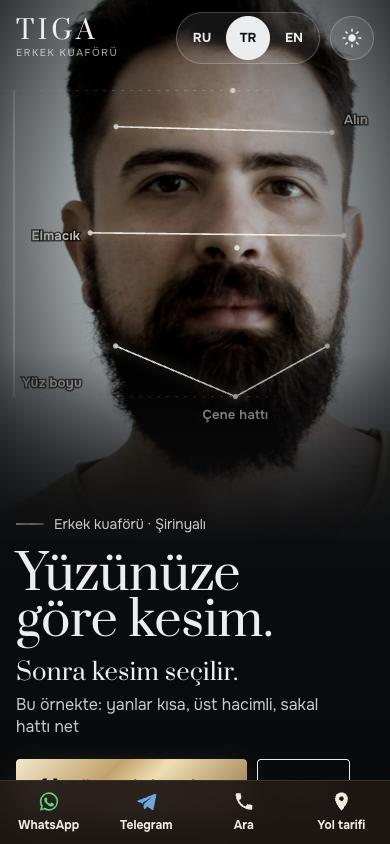
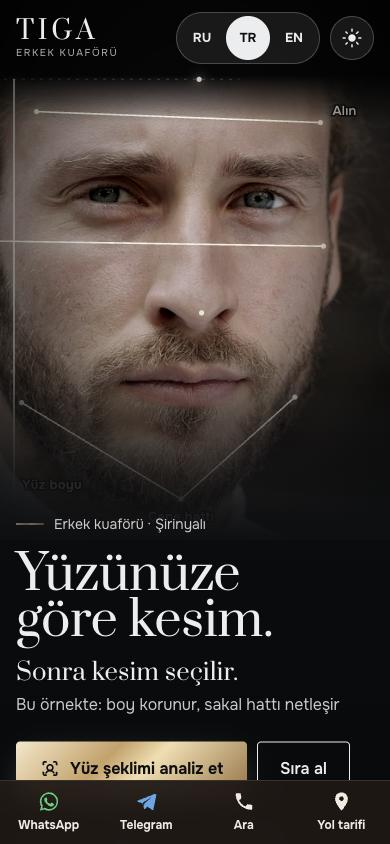
Berber demo: yeni yüz videosu

diff --git a/demo/sektor/berber/index.html b/demo/sektor/berber/index.html
@@ -26,7 +26,7 @@ h1,h2,h3{font-family:var(--k-display);font-weight:400;margin:0;letter-spacing:-.
 .hero{position:relative;min-height:100svh;color:#ECEDEF;display:flex;flex-direction:column;isolation:isolate;overflow:hidden;background:#0E0F11}
 /* yüz anatomisi: önceden çıkarılmış yüz noktalarıyla çizgiler (face-track.js) */
 .anat{position:absolute;inset:0;z-index:-2;background:#070708;overflow:hidden}
-.anat video{position:absolute;left:0;top:0;width:100%;height:100%;max-width:none;max-height:none;object-fit:cover;filter:contrast(1.18) saturate(.8) brightness(.78);opacity:0;transition:opacity 1.2s var(--ease)}
+.anat video{position:absolute;left:0;top:0;width:100%;height:100%;max-width:none;max-height:none;object-fit:cover;-webkit-mask-image:linear-gradient(180deg,transparent 0,#000 10%);mask-image:linear-gradient(180deg,transparent 0,#000 10%);filter:contrast(1.18) saturate(.8) brightness(.78);opacity:0;transition:opacity 1.2s var(--ease)}
 .anat video.on{opacity:1}
 .anat svg{position:absolute;inset:0;width:100%;height:100%;overflow:visible}
 .anat__vig{position:absolute;inset:0;background:radial-gradient(70% 75% at 50% 44%,transparent 30%,rgba(0,0,0,.82))}
@@ -349,7 +349,7 @@ window.SITE = {
       night_msg: 'Yarın sabah 10 civarı saç ve sakal için sıra alabilir miyim? Yanlar kısa, üst hacimli olsun.',
       page_title: 'Tiga Kuaför · Şirinyalı · yüzünüze göre kesim', page_desc: "Şirinyalı'da erkek kuaförü. Yüz şeklinize ve saç yapınıza uygun kesim, sakal ve çocuk saç kesimi.",
       brand_sub: 'ERKEK KUAFÖRÜ', nav_face: 'Yüz analizi', nav_styles: 'Kesimler', nav_book: 'Sıra al', nav_find: 'Bizi bulun',
-      kicker: 'Erkek kuaförü · Şirinyalı', an_1: 'Önce yüz okunur.|Boy, alın, elmacık, çene', an_2: 'Alın genişliği|Üstteki hacmi belirler', an_3: 'Elmacık kemikleri|Yanların ne kadar kısalacağını belirler', an_4: 'Çene hattı|Sakal ve favori çizgisini belirler', an_5: 'Sonra kesim seçilir.|Bu örnekte: yanlar kısa, üst hacimli, sakal hattı net', lb_len: 'Yüz boyu', lb_fh: 'Alın', lb_ck: 'Elmacık', lb_jw: 'Çene hattı', cut_h: 'Kesim, adım adım.', c1: 'Makineyle ilk geçiş.|Yanlar ve ense', c2: 'Geçiş yumuşatılır.|Fade çizgisi kaybolana kadar', c3: 'Makasla üst.|Doku ve uzunluk', c4: 'Usturayla kontür.|Ense ve favori', c5: 'Tarak ve şekil.|Aynada son bakış', hero_h1: 'Yüzünüze göre kesim.', hero_p: 'Her kesim her yüze yakışmaz. Fotoğrafınızı yükleyin, size uyanı görün.', hn1: 'Her kesim her yüze yakışmaz.|Fotoğrafınızı yükleyin, size uyanı görün', hn2: 'Makine, makas, ustura.|Kesimi katalogdan seçin', hn3: 'Sıranızı alın.|WhatsApp ya da Telegram ile',
+      kicker: 'Erkek kuaförü · Şirinyalı', an_1: 'Önce yüz okunur.|Boy, alın, elmacık, çene', an_2: 'Alın genişliği|Üstteki hacmi belirler', an_3: 'Elmacık kemikleri|Yanların ne kadar kısalacağını belirler', an_4: 'Çene hattı|Sakal ve favori çizgisini belirler', an_5: 'Sonra kesim seçilir.|Bu örnekte: boy korunur, sakal hattı netleşir', lb_len: 'Yüz boyu', lb_fh: 'Alın', lb_ck: 'Elmacık', lb_jw: 'Çene hattı', cut_h: 'Kesim, adım adım.', c1: 'Makineyle ilk geçiş.|Yanlar ve ense', c2: 'Geçiş yumuşatılır.|Fade çizgisi kaybolana kadar', c3: 'Makasla üst.|Doku ve uzunluk', c4: 'Usturayla kontür.|Ense ve favori', c5: 'Tarak ve şekil.|Aynada son bakış', hero_h1: 'Yüzünüze göre kesim.', hero_p: 'Her kesim her yüze yakışmaz. Fotoğrafınızı yükleyin, size uyanı görün.', hn1: 'Her kesim her yüze yakışmaz.|Fotoğrafınızı yükleyin, size uyanı görün', hn2: 'Makine, makas, ustura.|Kesimi katalogdan seçin', hn3: 'Sıranızı alın.|WhatsApp ya da Telegram ile',
       cta_face: 'Yüz şeklimi analiz et', cta_book: 'Sıra al', tag: 'Temsili görsel', tag_v: 'Temsili video (Mixkit)',
       t_clip: 'Makine', t_sci: 'Makas', t_raz: 'Ustura', t_comb: 'Tarak',
       t_clip_d: 'Fade ve kontur için hassas makine.', t_sci_d: 'Doku ve hacim için makasla kesim.', t_raz_d: 'Ense ve sakal hattında temiz bitiş.', t_comb_d: 'Makas ve tarakla katman katman şekil.',
@@ -386,7 +386,7 @@ window.SITE = {
       night_msg: 'Можно записаться завтра около 10 утра на стрижку и бороду? Коротко по бокам, объём сверху.',
       page_title: 'Tiga Kuaför · Ширинъялы · стрижка по форме лица', page_desc: 'Мужская парикмахерская в Ширинъялы. Стрижка по форме лица и типу волос, борода, детская стрижка.',
       brand_sub: 'МУЖСКОЙ ПАРИКМАХЕР', nav_face: 'Анализ лица', nav_styles: 'Стрижки', nav_book: 'Записаться', nav_find: 'Как нас найти',
-      kicker: 'Мужской парикмахер · Ширинъялы', an_1: 'Сначала — форма лица.|Длина, лоб, скулы, челюсть', an_2: 'Ширина лба|Определяет объём сверху', an_3: 'Скулы|Решают, насколько коротко по бокам', an_4: 'Линия челюсти|Задаёт линию бороды и висков', an_5: 'Потом выбираем стрижку.|В этом примере: коротко по бокам, объём сверху, чёткая линия бороды', lb_len: 'Длина лица', lb_fh: 'Лоб', lb_ck: 'Скулы', lb_jw: 'Челюсть', cut_h: 'Стрижка шаг за шагом.', c1: 'Первый проход машинкой.|Бока и затылок', c2: 'Сглаживаем переход.|Пока линия фейда не исчезнет', c3: 'Верх — ножницами.|Текстура и длина', c4: 'Контур бритвой.|Затылок и виски', c5: 'Расчёска и форма.|Последний взгляд в зеркало', hn1: 'Не каждая стрижка подходит каждому лицу.|Загрузите фото и посмотрите свою', hn2: 'Машинка, ножницы, бритва.|Выберите стрижку в каталоге', hn3: 'Займите очередь.|Через WhatsApp или Telegram', hero_h1: 'Стрижка по форме лица.', hero_p: 'Не каждая стрижка подходит каждому лицу. Загрузите фото — увидите свою.',
+      kicker: 'Мужской парикмахер · Ширинъялы', an_1: 'Сначала — форма лица.|Длина, лоб, скулы, челюсть', an_2: 'Ширина лба|Определяет объём сверху', an_3: 'Скулы|Решают, насколько коротко по бокам', an_4: 'Линия челюсти|Задаёт линию бороды и висков', an_5: 'Потом выбираем стрижку.|В этом примере: длина сохраняется, линия бороды становится чёткой', lb_len: 'Длина лица', lb_fh: 'Лоб', lb_ck: 'Скулы', lb_jw: 'Челюсть', cut_h: 'Стрижка шаг за шагом.', c1: 'Первый проход машинкой.|Бока и затылок', c2: 'Сглаживаем переход.|Пока линия фейда не исчезнет', c3: 'Верх — ножницами.|Текстура и длина', c4: 'Контур бритвой.|Затылок и виски', c5: 'Расчёска и форма.|Последний взгляд в зеркало', hn1: 'Не каждая стрижка подходит каждому лицу.|Загрузите фото и посмотрите свою', hn2: 'Машинка, ножницы, бритва.|Выберите стрижку в каталоге', hn3: 'Займите очередь.|Через WhatsApp или Telegram', hero_h1: 'Стрижка по форме лица.', hero_p: 'Не каждая стрижка подходит каждому лицу. Загрузите фото — увидите свою.',
       cta_face: 'Определить форму лица', cta_book: 'Записаться', tag: 'Иллюстративное фото', tag_v: 'Иллюстративное видео (Mixkit)',
       t_clip: 'Машинка', t_sci: 'Ножницы', t_raz: 'Опасная бритва', t_comb: 'Расчёска',
       t_clip_d: 'Точная машинка для фейда и контура.', t_sci_d: 'Ножницы для текстуры и объёма.', t_raz_d: 'Чистая линия на шее и бороде.', t_comb_d: 'Форма слой за слоем ножницами и расчёской.',
@@ -423,7 +423,7 @@ window.SITE = {
       night_msg: 'Can I book a haircut and beard for tomorrow around 10 a.m.? Short sides, volume on top.',
       page_title: 'Tiga Kuaför · Şirinyalı · a cut for your face', page_desc: 'Men’s barber in Şirinyalı. A cut matched to your face shape and hair type, beard and kids’ haircuts.',
       brand_sub: 'MEN’S BARBER', nav_face: 'Face analysis', nav_styles: 'Styles', nav_book: 'Book', nav_find: 'Find us',
-      kicker: 'Men’s barber · Şirinyalı', an_1: 'First, we read the face.|Length, forehead, cheekbones, jaw', an_2: 'Forehead width|Sets the volume on top', an_3: 'Cheekbones|Decide how short the sides go', an_4: 'Jawline|Shapes the beard and sideburns', an_5: 'Then we pick the cut.|In this example: short sides, volume on top, a sharp beard line', lb_len: 'Face length', lb_fh: 'Forehead', lb_ck: 'Cheekbones', lb_jw: 'Jawline', cut_h: 'The cut, step by step.', c1: 'First pass with the clippers.|Sides and nape', c2: 'Blending the fade.|Until the line disappears', c3: 'Scissors on top.|Texture and length', c4: 'Razor outline.|Nape and sideburns', c5: 'Comb and shape.|One last look in the mirror', hn1: 'Not every cut suits every face.|Upload a photo and see yours', hn2: 'Clippers, scissors, razor.|Pick your cut from the catalogue', hn3: 'Take your place in line.|Via WhatsApp or Telegram', hero_h1: 'A cut shaped to your face.', hero_p: 'Not every cut suits every face. Upload a photo and see yours.',
+      kicker: 'Men’s barber · Şirinyalı', an_1: 'First, we read the face.|Length, forehead, cheekbones, jaw', an_2: 'Forehead width|Sets the volume on top', an_3: 'Cheekbones|Decide how short the sides go', an_4: 'Jawline|Shapes the beard and sideburns', an_5: 'Then we pick the cut.|In this example: keep the length, sharpen the beard line', lb_len: 'Face length', lb_fh: 'Forehead', lb_ck: 'Cheekbones', lb_jw: 'Jawline', cut_h: 'The cut, step by step.', c1: 'First pass with the clippers.|Sides and nape', c2: 'Blending the fade.|Until the line disappears', c3: 'Scissors on top.|Texture and length', c4: 'Razor outline.|Nape and sideburns', c5: 'Comb and shape.|One last look in the mirror', hn1: 'Not every cut suits every face.|Upload a photo and see yours', hn2: 'Clippers, scissors, razor.|Pick your cut from the catalogue', hn3: 'Take your place in line.|Via WhatsApp or Telegram', hero_h1: 'A cut shaped to your face.', hero_p: 'Not every cut suits every face. Upload a photo and see yours.',
       cta_face: 'Analyse my face shape', cta_book: 'Book a slot', tag: 'Illustrative photo', tag_v: 'Illustrative video (Mixkit)',
       t_clip: 'Clippers', t_sci: 'Scissors', t_raz: 'Straight razor', t_comb: 'Comb',
       t_clip_d: 'Precise clippers for fades and outlines.', t_sci_d: 'Scissor work for texture and volume.', t_raz_d: 'A clean finish on the neck and beard line.', t_comb_d: 'Shape built layer by layer with scissors and comb.',

diff --git a/demo/sektor/berber/face-track.js b/demo/sektor/berber/face-track.js
@@ -1,5 +1,5 @@
-/* Pexels 7555579 (sakallı, orta boy saçlı adam), 0–3.2 sn (ciddi kısım; 3.4 sn'den sonra gülümsüyor) için MediaPipe ile önceden çıkarılmış yüz noktaları, binde bir birimle (x/1280, y/720).
+/* Pexels 5125842 (sakallı, orta boy saçlı manken; 24 sn'den sonra kameraya bakıyor), 24–30.4 sn için MediaPipe ile önceden çıkarılmış yüz noktaları, binde bir birimle (x/960, y/540).
    Sıra: üst(10), çene(152), sol/sağ elmacık(234/454), sol/sağ şakak(127/356), sol/sağ çene köşesi(172/397), sol/sağ alın(54/284), burun(1). Araç: _kit/track.html
-   follow: video yüzü yatayda takip eder (kafa sağa sola gidiyor); fy: dikey odak; zoom: masaüstü/telefon; slow: oynatma hızı. */
-window.FACE_TRACK = { src: 'px:7555579/7555579-hd_1280_720_25fps', w: 1280, h: 720, t0: 0, t1: 3.2, step: 0.2, follow: true, fx: 0.5, fy: 0.47, zoom: [1.1, 1.08], slow: 0.5,
-f: [[[533,217],[558,720],[414,462],[647,431],[412,417],[645,386],[446,648],[640,620],[429,289],[628,267],[550,487]],[[526,214],[549,721],[405,462],[640,432],[403,416],[639,387],[437,649],[632,621],[420,288],[622,266],[540,483]],[[513,214],[537,720],[392,460],[629,430],[390,415],[628,384],[424,647],[620,619],[408,287],[611,264],[529,487]],[[505,213],[527,720],[382,457],[621,428],[381,412],[620,383],[413,645],[612,618],[399,284],[603,263],[519,484]],[[500,204],[524,723],[379,454],[618,426],[377,407],[616,380],[410,644],[610,619],[395,277],[599,257],[515,481]],[[496,195],[520,709],[377,447],[617,415],[375,400],[615,369],[408,635],[606,607],[391,270],[597,247],[511,469]],[[477,193],[508,709],[362,453],[602,409],[359,406],[600,362],[395,640],[596,602],[374,275],[578,239],[496,465]],[[429,190],[472,700],[323,456],[564,396],[319,411],[560,350],[359,638],[561,588],[329,279],[534,229],[453,453]],[[395,181],[439,696],[288,448],[531,389],[284,402],[527,342],[325,635],[529,585],[294,269],[500,220],[418,447]],[[352,177],[394,698],[243,448],[490,388],[239,401],[487,341],[280,635],[486,584],[250,266],[460,217],[374,446]],[[297,185],[334,715],[182,457],[432,408],[178,410],[429,360],[217,647],[426,606],[191,272],[404,232],[317,457]],[[257,192],[285,724],[133,460],[385,424],[131,412],[383,376],[166,653],[377,621],[147,274],[362,246],[273,464]],[[238,194],[254,732],[106,455],[357,439],[105,406],[356,391],[135,651],[345,634],[126,268],[340,259],[249,469]],[[255,195],[263,724],[118,447],[367,444],[118,399],[367,397],[145,642],[352,635],[142,263],[353,265],[262,467]],[[290,198],[293,725],[152,442],[398,446],[152,394],[399,399],[177,636],[382,636],[177,260],[386,269],[294,469]],[[339,201],[341,723],[202,445],[445,451],[202,397],[446,404],[226,639],[429,639],[227,263],[434,274],[343,469]],[[394,204],[391,719],[254,438],[495,451],[255,392],[497,405],[278,630],[478,635],[281,261],[487,277],[396,469]]] };
+   Yüz kadrajı dolduruyor: cy = yüz ortasının kutudaki yüksekliği (masaüstü/telefon), topRoom = üstte bırakılabilecek boşluk oranı. */
+window.FACE_TRACK = { src: 'px:5125842/5125842-sd_960_540_30fps', w: 960, h: 540, t0: 24, t1: 30.4, step: 0.2, fx: 0.51, fy: 0.46, cy: [0.56, 0.53], topRoom: 0.16, zoom: [1, 0.86], slow: 0.5,
+f: [[[506,2],[482,910],[249,351],[657,365],[251,271],[661,289],[286,703],[624,693],[307,69],[653,95],[509,508]],[[510,-6],[486,912],[253,348],[663,366],[255,269],[668,290],[290,701],[629,695],[307,67],[661,94],[512,507]],[[513,-1],[487,912],[256,352],[663,369],[258,273],[667,293],[293,705],[630,698],[312,70],[660,97],[515,508]],[[510,-4],[487,913],[255,350],[664,367],[257,271],[668,291],[292,703],[630,697],[309,68],[661,96],[511,507]],[[509,-2],[486,914],[255,351],[663,365],[257,273],[668,290],[292,703],[628,694],[307,71],[661,96],[511,508]],[[510,2],[488,915],[257,352],[664,367],[259,274],[668,292],[294,703],[630,695],[312,72],[659,98],[512,509]],[[509,3],[488,914],[257,354],[664,367],[259,276],[668,293],[294,703],[630,695],[310,75],[659,99],[512,509]],[[508,2],[486,912],[254,352],[663,366],[256,273],[667,291],[291,703],[629,695],[309,73],[659,97],[510,509]],[[508,3],[486,912],[255,352],[662,368],[257,274],[666,293],[292,703],[628,696],[310,73],[658,99],[510,509]],[[506,5],[484,912],[252,352],[659,365],[254,273],[664,291],[289,702],[625,693],[308,74],[655,98],[509,510]],[[504,7],[484,910],[252,352],[658,366],[254,274],[662,291],[289,702],[625,693],[308,75],[653,99],[508,510]],[[504,5],[482,914],[251,358],[656,369],[254,278],[660,293],[289,708],[623,696],[309,75],[650,98],[507,507]],[[502,4],[482,911],[249,353],[657,365],[251,274],[661,290],[286,704],[623,694],[305,73],[651,97],[505,508]],[[501,3],[481,910],[249,352],[656,364],[251,274],[661,289],[286,703],[623,692],[302,75],[652,97],[505,509]],[[501,1],[481,911],[249,352],[656,364],[251,275],[660,289],[286,702],[623,693],[301,75],[652,96],[505,508]],[[501,2],[482,910],[249,351],[657,364],[251,273],[661,289],[286,701],[623,691],[303,73],[652,96],[505,506]],[[503,5],[483,909],[250,352],[656,363],[253,273],[659,288],[288,702],[624,691],[308,73],[649,96],[506,506]],[[504,2],[485,908],[251,350],[657,362],[253,272],[661,288],[289,699],[624,689],[307,71],[652,95],[508,505]],[[505,-2],[485,908],[252,350],[661,363],[254,272],[665,288],[290,701],[626,691],[305,71],[656,94],[509,504]],[[508,-6],[488,909],[256,349],[662,361],[258,270],[667,286],[294,700],[628,691],[308,68],[659,91],[511,504]],[[508,0],[489,910],[257,352],[664,363],[258,274],[669,288],[295,700],[629,690],[308,74],[660,96],[512,506]],[[510,2],[490,912],[258,353],[664,364],[260,275],[668,289],[296,702],[631,691],[312,74],[659,97],[513,508]],[[511,2],[490,913],[259,355],[664,366],[261,276],[668,291],[296,705],[630,694],[314,74],[659,97],[514,507]],[[511,2],[490,915],[258,356],[663,368],[260,278],[667,293],[297,706],[629,695],[313,75],[659,99],[514,508]],[[512,6],[490,916],[260,354],[664,368],[262,276],[668,293],[297,703],[630,695],[315,76],[660,101],[515,509]],[[514,9],[491,912],[260,355],[663,369],[262,276],[668,294],[297,705],[630,695],[318,76],[660,101],[516,510]],[[514,9],[491,912],[261,356],[664,370],[263,277],[669,295],[297,704],[630,695],[317,77],[661,103],[516,509]],[[514,6],[493,913],[261,356],[665,369],[263,278],[670,294],[299,705],[631,695],[317,77],[662,101],[518,509]],[[515,8],[493,912],[263,357],[666,369],[265,279],[670,294],[300,705],[631,694],[318,78],[662,102],[518,510]],[[515,8],[493,912],[263,355],[665,365],[265,277],[670,291],[300,703],[631,690],[318,77],[662,100],[518,512]],[[514,5],[494,912],[261,353],[665,366],[263,275],[670,291],[299,703],[632,692],[316,75],[663,99],[519,511]],[[514,5],[494,908],[261,353],[665,364],[263,274],[670,289],[299,701],[632,690],[317,74],[663,97],[518,511]],[[515,6],[494,906],[262,352],[666,364],[264,274],[670,289],[299,700],[631,689],[319,74],[663,97],[519,510]]] };

diff --git a/demo/sektor/berber/anat.js b/demo/sektor/berber/anat.js
@@ -30,8 +30,8 @@
     function place() {
       var cw = box.clientWidth, ch = box.clientHeight, narrow = cw < 600, z = (T.zoom || [1, 1])[narrow ? 1 : 0];
       var s = Math.max(cw / T.w, ch / T.h) * z, W = T.w * s, H = T.h * s;
-      var dx = cw * 0.5 - (T.fx || 0.5) * W, dy = ch * (narrow ? 0.46 : 0.5) - (T.fy || 0.5) * H;
-      dx = Math.min(0, Math.max(cw - W, dx)); dy = Math.min(0, Math.max(ch - H, dy));
+      var dx = cw * 0.5 - (T.fx || 0.5) * W, dy = ch * (T.cy ? T.cy[narrow ? 1 : 0] : (narrow ? 0.46 : 0.5)) - (T.fy || 0.5) * H;
+      dx = Math.min(0, Math.max(cw - W, dx)); dy = Math.min(ch * (T.topRoom || 0), Math.max(ch - H, dy));
       M.s = s; M.dy = dy; M.W = W; M.H = H; if (!T.follow || !M.init) M.dx = dx;
       v.style.width = W + 'px'; v.style.height = H + 'px'; v.style.left = '0px'; v.style.top = dy + 'px'; v.style.transform = 'translate3d(' + M.dx + 'px,0,0)';
     }
@@ -66,8 +66,8 @@
       function lab(tx, x, y, k, anchor) { tx.setAttribute('x', x); tx.setAttribute('y', y); tx.setAttribute('text-anchor', anchor || 'start'); tx.style.opacity = pr[k] > 0.6 ? 1 : 0; }
       lab(G.tLen, lenX + (narrow ? 8 : 10), narrow ? chin[1] - 10 : (top[1] + chin[1]) / 2, 0);
       lab(G.tFh, fr[0] + 12, fr[1] - 8, 1);
-      lab(G.tCk, narrow ? cl[0] - 10 : cr[0] + 14, cr[1] + 4, 2, narrow ? 'end' : 'start');
-      if (narrow) lab(G.tJw, chin[0], chin[1] + 22, 3, 'middle'); else lab(G.tJw, jr[0] + 12, jr[1] + 16, 3);
+      if (narrow) lab(G.tCk, (cl[0] + cr[0]) / 2, Math.min(cl[1], cr[1]) - 10, 2, 'middle'); else lab(G.tCk, cr[0] + 14, cr[1] + 4, 2);
+      if (narrow) lab(G.tJw, jr[0] - 6, jr[1] - 12, 3, 'end'); else lab(G.tJw, jr[0] + 12, jr[1] + 16, 3);
       [top, chin, cl, cr, jl, jr, fl, fr, P[10]].forEach(function (p, k) { dots[k].setAttribute('cx', p[0]); dots[k].setAttribute('cy', p[1]); dots[k].style.opacity = pr[0] > 0 ? 0.9 : 0; });
       var ph = 0; PH.forEach(function (q, k) { if (t >= q[0]) ph = k; });
       if (ph !== lastPh) { lastPh = ph; say(PH[ph][1]); }
